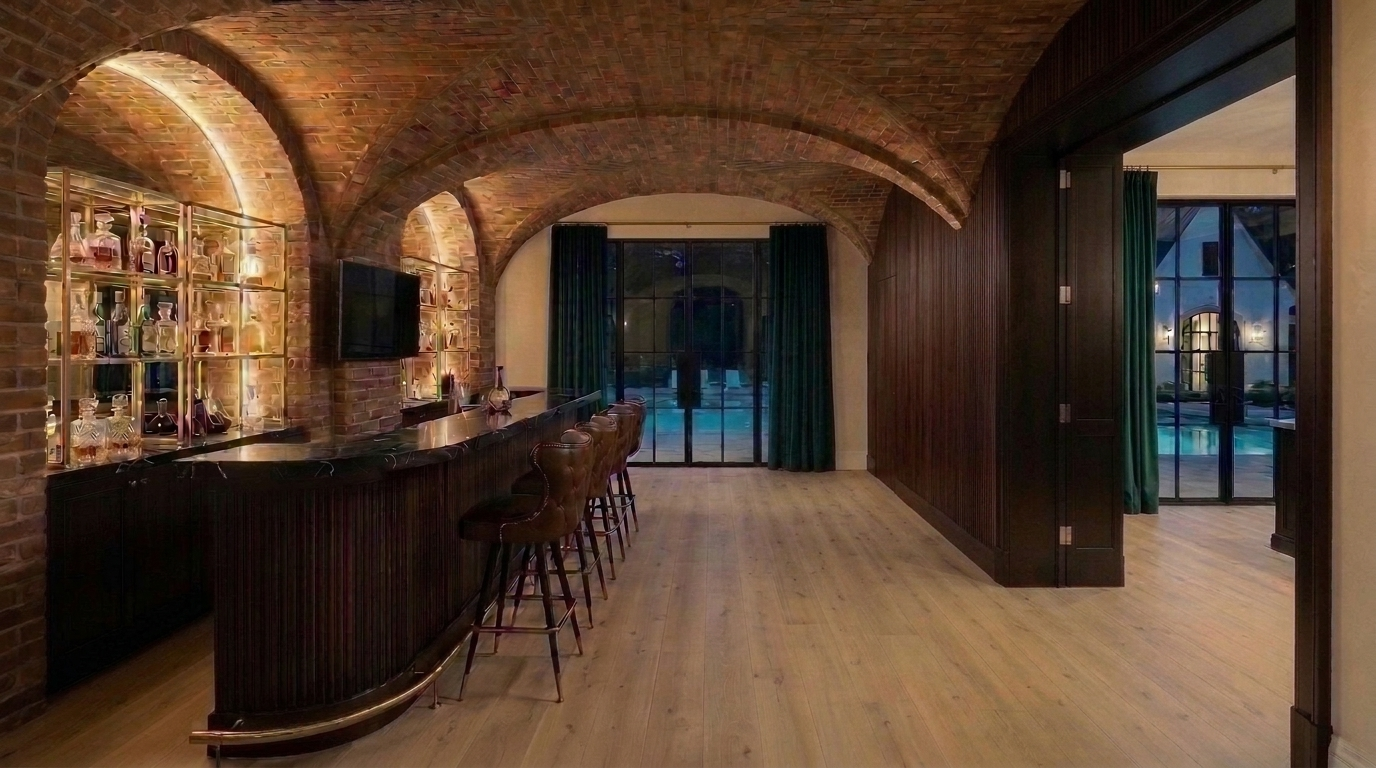
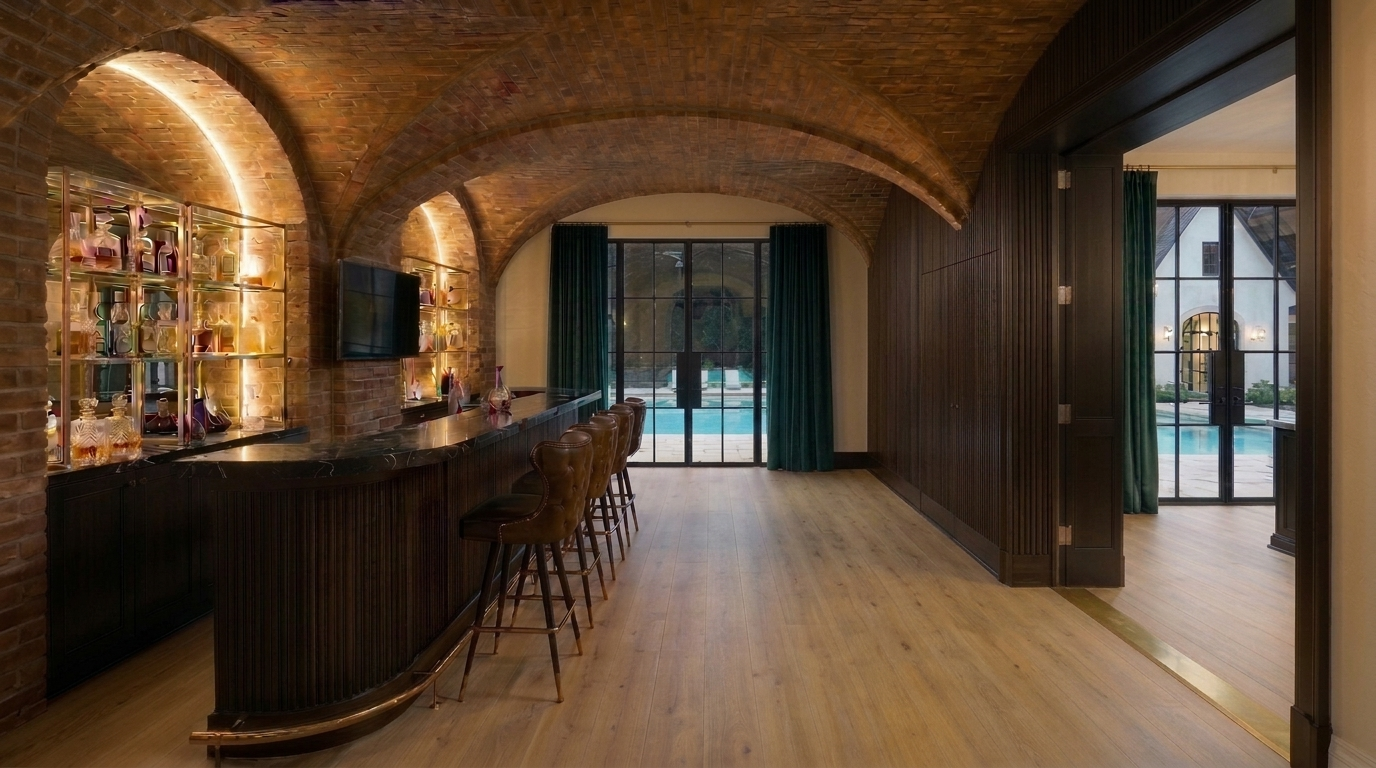
Update Speakeasy View C straight wall & China Cabinet door + Multi-Purpose Barn (Black Fleet, Wedding Reception & Gala modes)

diff --git a/estate_interactive_lookbook_standalone.html b/estate_interactive_lookbook_standalone.html
@@ -334,7 +334,7 @@
 
           <div onclick="openLightbox(38)" class="group cursor-zoom-in bg-stone-950 border border-amber-500/40 rounded-xl overflow-hidden">
             <div class="relative overflow-hidden">
-              <img src="static/images/03a_speakeasy_back_corner_door_closed.jpg?v=backcorner01" alt="Inside Speakeasy (Back-Corner Hidden Door CLOSED): 100% Matching Fluted Deep Dark Cherry / Espresso Mahogany Wood Wall with Back-Corner Hidden Stairway Door Closed Flush" class="w-full h-60 object-cover group-hover:scale-105 transition duration-500" />
+              <img src="static/images/03a_speakeasy_back_corner_door_closed.jpg?v=backcorner3d02" alt="Inside Speakeasy (Back-Corner Hidden Door CLOSED): 100% Matching Fluted Deep Dark Cherry / Espresso Mahogany Wood Wall with Back-Corner Hidden Stairway Door Closed Flush" class="w-full h-60 object-cover group-hover:scale-105 transition duration-500" />
               <div class="absolute top-3 left-3 px-2.5 py-1 rounded-md bg-stone-900/90 text-xs font-bold text-amber-300 border border-amber-500/40">3. INSIDE (STAIR DOOR CLOSED): Back Corner</div>
             </div>
             <div class="p-3.5">
@@ -344,7 +344,7 @@
 
           <div onclick="openLightbox(10)" class="group cursor-zoom-in bg-stone-950 border border-amber-500/40 rounded-xl overflow-hidden">
             <div class="relative overflow-hidden">
-              <img src="static/images/03_speakeasy_cutaway.jpg?v=backcorner01" alt="Inside Speakeasy (Back-Corner Hidden Door OPEN with Stairs): Matching Fluted Deep Dark Cherry / Espresso Mahogany Wood Door in Back-Right Corner Swung Open Revealing the Stairs Descending Into the Cellar" class="w-full h-60 object-cover group-hover:scale-105 transition duration-500" />
+              <img src="static/images/03_speakeasy_cutaway.jpg?v=backcorner3d02" alt="Inside Speakeasy (Back-Corner Hidden Door OPEN with Stairs): Matching Fluted Deep Dark Cherry / Espresso Mahogany Wood Door in Back-Right Corner Swung Open Revealing the Stairs Descending Into the Cellar" class="w-full h-60 object-cover group-hover:scale-105 transition duration-500" />
               <div class="absolute top-3 left-3 px-2.5 py-1 rounded-md bg-amber-500 text-xs font-bold text-stone-950">4. INSIDE (STAIR DOOR OPEN): Back Corner Stairs</div>
             </div>
             <div class="p-3.5">
@@ -1358,7 +1358,7 @@
         ]
       },
       {
-        src: "static/images/03_speakeasy_cutaway.jpg?v=backcorner01",
+        src: "static/images/03_speakeasy_cutaway.jpg?v=backcorner3d02",
         category: "level1",
         zone: "Speakeasy (3. Inside — Back-Corner Matching Dark Wood Door OPEN with Stairs)",
         badge: "Level 1 • Inside Narrow 12'×18' Speakeasy: Matching Fluted Deep Dark Cherry / Espresso Mahogany Hidden Door in Back-Right Corner Swung OPEN with Stairs Descending Into the Cellar (-12')",
@@ -1750,7 +1750,7 @@
         ]
       },
       {
-        src: "static/images/03a_speakeasy_back_corner_door_closed.jpg?v=backcorner01",
+        src: "static/images/03a_speakeasy_back_corner_door_closed.jpg?v=backcorner3d02",
         category: "level1",
         zone: "Speakeasy (3A. Inside — Back-Corner Matching Dark Wood Door CLOSED Flush)",
         badge: "Level 1 • Inside Narrow 12'×18' Speakeasy: Matching Fluted Deep Dark Cherry / Espresso Mahogany Hidden Door in Back-Right Corner Shown 100% CLOSED Flush",

diff --git a/index.html b/index.html
@@ -334,7 +334,7 @@
 
           <div onclick="openLightbox(38)" class="group cursor-zoom-in bg-stone-950 border border-amber-500/40 rounded-xl overflow-hidden">
             <div class="relative overflow-hidden">
-              <img src="static/images/03a_speakeasy_back_corner_door_closed.jpg?v=backcorner01" alt="Inside Speakeasy (Back-Corner Hidden Door CLOSED): 100% Matching Fluted Deep Dark Cherry / Espresso Mahogany Wood Wall with Back-Corner Hidden Stairway Door Closed Flush" class="w-full h-60 object-cover group-hover:scale-105 transition duration-500" />
+              <img src="static/images/03a_speakeasy_back_corner_door_closed.jpg?v=backcorner3d02" alt="Inside Speakeasy (Back-Corner Hidden Door CLOSED): 100% Matching Fluted Deep Dark Cherry / Espresso Mahogany Wood Wall with Back-Corner Hidden Stairway Door Closed Flush" class="w-full h-60 object-cover group-hover:scale-105 transition duration-500" />
               <div class="absolute top-3 left-3 px-2.5 py-1 rounded-md bg-stone-900/90 text-xs font-bold text-amber-300 border border-amber-500/40">3. INSIDE (STAIR DOOR CLOSED): Back Corner</div>
             </div>
             <div class="p-3.5">
@@ -344,7 +344,7 @@
 
           <div onclick="openLightbox(10)" class="group cursor-zoom-in bg-stone-950 border border-amber-500/40 rounded-xl overflow-hidden">
             <div class="relative overflow-hidden">
-              <img src="static/images/03_speakeasy_cutaway.jpg?v=backcorner01" alt="Inside Speakeasy (Back-Corner Hidden Door OPEN with Stairs): Matching Fluted Deep Dark Cherry / Espresso Mahogany Wood Door in Back-Right Corner Swung Open Revealing the Stairs Descending Into the Cellar" class="w-full h-60 object-cover group-hover:scale-105 transition duration-500" />
+              <img src="static/images/03_speakeasy_cutaway.jpg?v=backcorner3d02" alt="Inside Speakeasy (Back-Corner Hidden Door OPEN with Stairs): Matching Fluted Deep Dark Cherry / Espresso Mahogany Wood Door in Back-Right Corner Swung Open Revealing the Stairs Descending Into the Cellar" class="w-full h-60 object-cover group-hover:scale-105 transition duration-500" />
               <div class="absolute top-3 left-3 px-2.5 py-1 rounded-md bg-amber-500 text-xs font-bold text-stone-950">4. INSIDE (STAIR DOOR OPEN): Back Corner Stairs</div>
             </div>
             <div class="p-3.5">
@@ -1358,7 +1358,7 @@
         ]
       },
       {
-        src: "static/images/03_speakeasy_cutaway.jpg?v=backcorner01",
+        src: "static/images/03_speakeasy_cutaway.jpg?v=backcorner3d02",
         category: "level1",
         zone: "Speakeasy (3. Inside — Back-Corner Matching Dark Wood Door OPEN with Stairs)",
         badge: "Level 1 • Inside Narrow 12'×18' Speakeasy: Matching Fluted Deep Dark Cherry / Espresso Mahogany Hidden Door in Back-Right Corner Swung OPEN with Stairs Descending Into the Cellar (-12')",
@@ -1750,7 +1750,7 @@
         ]
       },
       {
-        src: "static/images/03a_speakeasy_back_corner_door_closed.jpg?v=backcorner01",
+        src: "static/images/03a_speakeasy_back_corner_door_closed.jpg?v=backcorner3d02",
         category: "level1",
         zone: "Speakeasy (3A. Inside — Back-Corner Matching Dark Wood Door CLOSED Flush)",
         badge: "Level 1 • Inside Narrow 12'×18' Speakeasy: Matching Fluted Deep Dark Cherry / Espresso Mahogany Hidden Door in Back-Right Corner Shown 100% CLOSED Flush",
